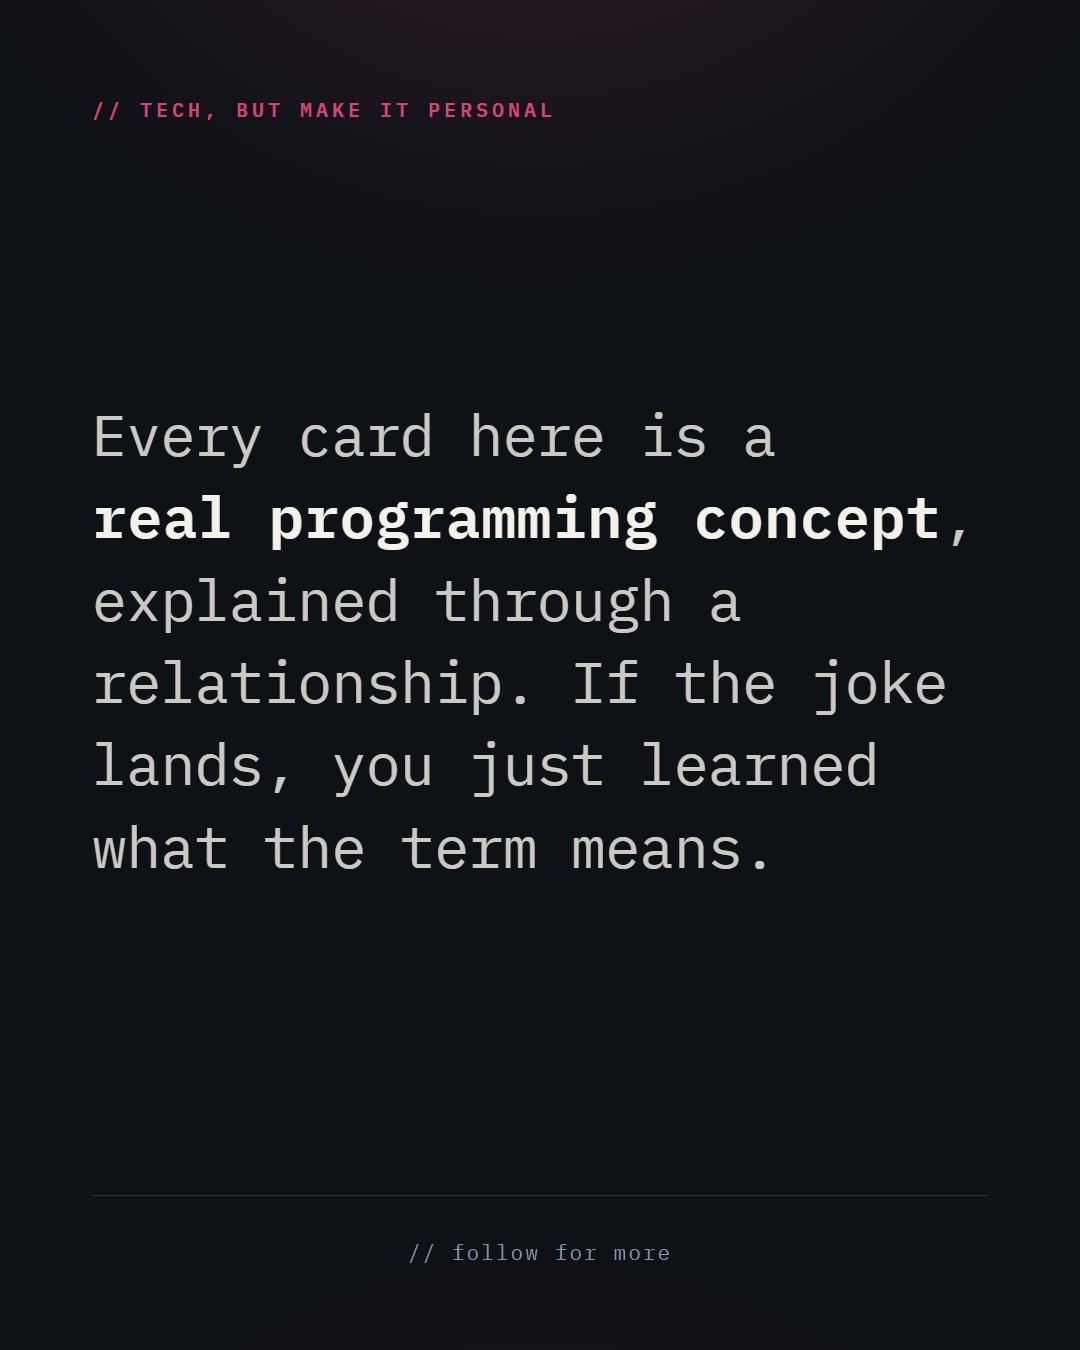
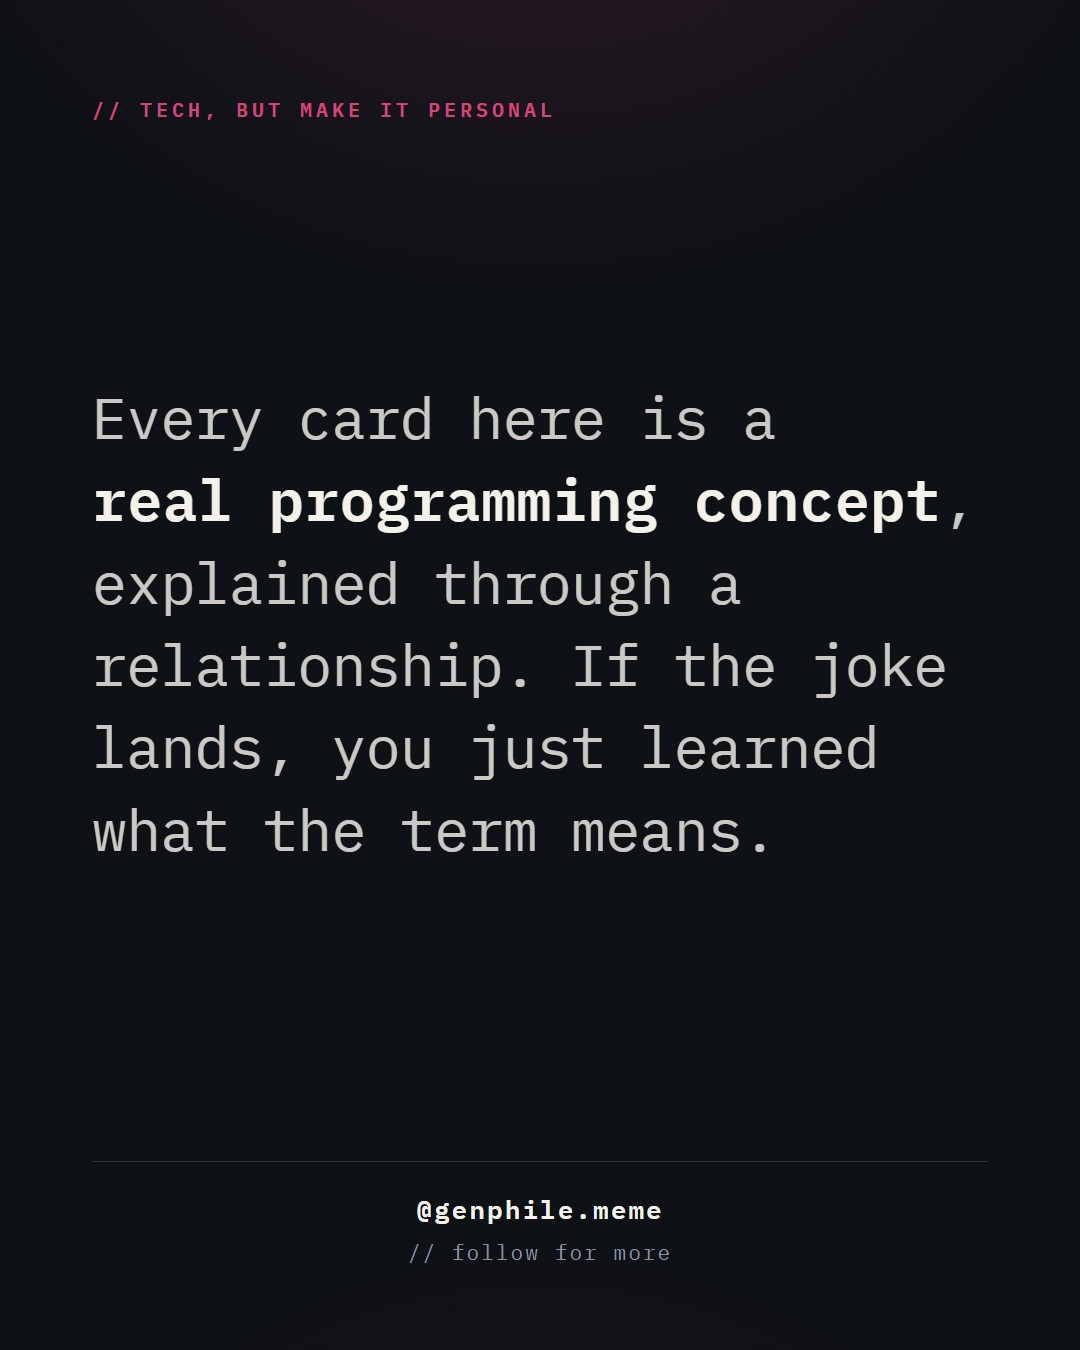
Set the real handles: @daily.techforyou and @genphile.meme
Both accounts exist now. The news account is new; the tech-metaphor
cards go to @genphile.meme, the owner's existing meme page, alongside
the posts made there by hand.

- Every card and both pinned intro cards now print the handle. The kit
  is rebuilt, and PROFILES.md shows the real handle.
- PROFILES.md said to post the intro card by hand, while the go-live
  page has the Gate A assistant post it. It now says the assistant does,
  which is also Meta's proof that publishing works.
- The branding test assumed placeholder handles were still shipped. It
  now checks that placeholders are blocked and the real handles pass.
- The go-live page marks the approvals and handles done and adjusts A1
  and A7 to the real accounts.

Changed region(s): [[0.0917, 0.28, 0.8861, 0.6533], [0.3667, 0.8711, 0.6111, 0.9022]]

diff --git a/go-live.html b/go-live.html
@@ -280,7 +280,7 @@
       </li>
       <li>
         <span class="n">3</span><span class="name">Harden</span><span class="chip done">Done</span>
-        <span class="detail">Fixed the findings of two code reviews and every problem the real runs surfaced; 150 Python and 24 publisher tests run on each change.</span>
+        <span class="detail">Fixed the findings of two code reviews and every problem the real runs surfaced; 151 Python and 24 publisher tests run on each change.</span>
       </li>
       <li>
         <span class="n">4</span><span class="name">Your credentials</span><span class="chip doing">3 of 6</span>
@@ -438,7 +438,7 @@
           <tr><td class="k">Alerts</td><td>Telegram receipts, review requests, skips and failures.</td><td>Three messages delivered today</td></tr>
           <tr><td class="k">Safety</td><td>The <code>LIVE</code> switch, a block on placeholder handles, protection against hostile links, secrets never echoed.</td><td>Automated tests</td></tr>
           <tr><td class="k">Token health</td><td>Checks the Instagram token every ten days.</td><td>Run against Meta's live API</td></tr>
-          <tr><td class="k">Quality</td><td>150 Python and 24 publisher tests on every change.</td><td>Passing on GitHub</td></tr>
+          <tr><td class="k">Quality</td><td>151 Python and 24 publisher tests on every change.</td><td>Passing on GitHub</td></tr>
         </tbody>
       </table>
     </div>
@@ -461,15 +461,12 @@
 
     <div class="phase" data-phase="R">
       <div class="phase-head">
-        <span class="phase-id">Now</span>
+        <span class="phase-id">Done</span>
         <span class="phase-name">Review the first cards</span>
-        <div class="meta"><span class="chip you">You</span><span class="chip effort">5 min</span><span class="progress" data-progress="R"></span></div>
+        <div class="meta"><span class="chip done">Complete</span></div>
       </div>
       <ul class="tasks">
-        <li><label class="task" for="task-R1"><input type="checkbox" id="task-R1" data-id="R1"><span class="task-id">R1</span><span class="task-body">
-          <span class="what">Tick the cards worth posting on <a href="https://github.com/rameshkumark24/Instapost/issues/1">issue #1</a></span>
-          <span class="how">Tick before 13:00 IST on Saturday 21 Sep; after that the twelve expire and a fresh batch is drafted. The issue shows as closed, which is fine: ticks on it still count. Strongest: PACKET LOSS, 404 NOT FOUND, ORPHAN ROW, FOREIGN KEY, TECHNICAL DEBT, NULL, MERGE CONFLICT. I'd skip MERGE, TCP HANDSHAKE and DETACHED HEAD. Ticking publishes nothing yet.</span>
-        </span></label></li>
+        <li><div class="task is-done"><span class="tick">✓</span><span class="task-id">R1</span><span class="task-body"><span class="what">7 cards approved on <a href="https://github.com/rameshkumark24/Instapost/issues/1">issue #1</a>, about a week of tech-metaphor cards</span></span></div></li>
       </ul>
     </div>
 
@@ -497,7 +494,7 @@
       <ul class="tasks">
         <li><label class="task" for="task-A1"><input type="checkbox" id="task-A1" data-id="A1"><span class="task-id">A1</span><span class="task-body">
           <span class="what">Create both Instagram accounts, switch each to Professional, keep both public</span>
-          <span class="how">One for news, one for tech-metaphor. Posting through the API does not work on private accounts. Names, bios, profile pictures and pinned posts are ready in <code>brand/PROFILES.md</code>.</span>
+          <span class="how">Both exist: <code>@daily.techforyou</code>, and your existing <code>@genphile.meme</code>. Check each is set to Professional (Creator or Business) and is public: posting through the API does not work on personal or private accounts.</span>
         </span></label></li>
         <li><label class="task" for="task-A2"><input type="checkbox" id="task-A2" data-id="A2"><span class="task-id">A2</span><span class="task-body">
           <span class="what">Create two Facebook Pages and link one to each account</span>
@@ -521,7 +518,7 @@
         </span></label></li>
         <li><label class="task" for="task-A7"><input type="checkbox" id="task-A7" data-id="A7"><span class="task-id">A7</span><span class="task-body">
           <span class="what">Post each account's pinned intro card</span>
-          <span class="how">Run the assistant again with <code>--publish</code> and type <code>PUBLISH</code> when asked. Gate A passes when Meta publishes; the test post you need anyway becomes each account's first real post. Pin it from the post's menu.</span>
+          <span class="how">Run the assistant again with <code>--publish</code> and type <code>PUBLISH</code> when asked. Gate A passes when Meta publishes each account's intro card, and this copy carries your handle. You already posted the intro by hand, so afterwards delete whichever copy you like less and pin the other.</span>
         </span></label></li>
       </ul>
     </div>
@@ -546,15 +543,12 @@
 
     <div class="phase" data-phase="H">
       <div class="phase-head">
-        <span class="phase-id">Handles</span>
-        <span class="phase-name">Tell me the account names</span>
-        <div class="meta"><span class="chip you">You</span><span class="chip effort">1 min</span><span class="progress" data-progress="H"></span></div>
+        <span class="phase-id">Done</span>
+        <span class="phase-name">Account handles</span>
+        <div class="meta"><span class="chip done">Complete</span></div>
       </div>
       <ul class="tasks">
-        <li><label class="task" for="task-H1"><input type="checkbox" id="task-H1" data-id="H1"><span class="task-id">H1</span><span class="task-body">
-          <span class="what">Send me both handles</span>
-          <span class="how">They print on every card. A live build refuses to run until they're set.</span>
-        </span></label></li>
+        <li><div class="task is-done"><span class="tick">✓</span><span class="task-id">H1</span><span class="task-body"><span class="what">News: <code>@daily.techforyou</code>. Tech-metaphor: <code>@genphile.meme</code>, your existing meme page, where these cards join your own posts. Both handles now print on every card.</span></span></div></li>
       </ul>
     </div>
 
@@ -643,7 +637,7 @@
   <section>
     <h2>Where I come in</h2>
     <ul class="claude-list">
-      <li><span class="when">When you send the handles</span><span>I set them and run a dry build so you can check both cards.</span></li>
+      <li><span class="when">Handles</span><span>Done: both set, and today's cards rendered with them to check the fit.</span></li>
       <li><span class="when">During Gate A</span><span>Send screenshots of any Meta error and I'll tell you what it means and what to change.</span></li>
       <li><span class="when">After Gate A</span><span>We test the publisher with your token in shadow mode before anything goes public.</span></li>
       <li><span class="when">During the shadow run</span><span>I review the cards and logs, and tune the news topics, scoring and blocklist.</span></li>

diff --git a/src/brand.py b/src/brand.py
@@ -117,7 +117,7 @@ def build() -> dict[str, dict[str, Path]]:
             pinned = render(profile["intro"], out / "pinned-post.jpg", channel=channel)
         else:
             pinned = render_quote(profile["intro"], channel, out / "pinned-post.jpg")
-        written[name] = {"avatar": avatar, "pinned": pinned, "handle_set": bool(channel["handle"])}
+        written[name] = {"avatar": avatar, "pinned": pinned, "handle": channel["handle"], "handle_set": bool(channel["handle"])}
     return written
 
 
@@ -138,7 +138,8 @@ def write_profiles_md(written: dict[str, dict]) -> Path:
             "",
             "**Display name** (pick one): " + " · ".join(profile["display_names"]),
             "",
-            "**Handle ideas:** " + " · ".join(f"`{h}`" for h in profile["handle_ideas"]),
+            f"**Handle:** `{files['handle']}`" if files["handle_set"]
+            else "**Handle ideas:** " + " · ".join(f"`{h}`" for h in profile["handle_ideas"]),
             "",
             "**Bio** (copy exactly):",
             "",
@@ -148,8 +149,9 @@ def write_profiles_md(written: dict[str, dict]) -> Path:
             "",
             f"**Profile picture:** `brand/{name}/avatar.jpg`",
             "",
-            f"**Pinned first post:** `brand/{name}/pinned-post.jpg` - post it by hand before",
-            "the first automated post, then pin it from the post's menu.",
+            f"**Pinned first post:** `brand/{name}/pinned-post.jpg`. The Gate A assistant",
+            "publishes it for you (`.venv/Scripts/python -m src.gate_a --publish`, go-live",
+            "step A7), which is also Meta's proof that posting works. Pin it from the post's menu.",
             "",
         ]
         if not files["handle_set"]:

diff --git a/tests/test_pipeline.py b/tests/test_pipeline.py
@@ -508,12 +508,18 @@ class BrandingGuard(unittest.TestCase):
     def tearDown(self):
         cfg.DRY_RUN = self._dry
 
-    def test_every_shipped_placeholder_is_blocked_live(self):
+    def test_placeholder_handles_are_blocked_live(self):
+        cfg.DRY_RUN = False
+        for placeholder in ("@__news_handle__", "@__flirt_handle__"):
+            with self.subTest(handle=placeholder):
+                with self.assertRaises(RuntimeError):
+                    cfg.assert_branding_ready({"handle": placeholder})
+
+    def test_the_configured_handles_are_ready_to_go_live(self):
         cfg.DRY_RUN = False
         for name, channel in cfg.CHANNELS.items():
             with self.subTest(channel=name):
-                with self.assertRaises(RuntimeError):
-                    cfg.assert_branding_ready(channel)
+                cfg.assert_branding_ready(channel)      # raises on a placeholder or a malformed handle
 
     def test_placeholders_are_not_substrings_of_each_other(self):  # review 6
         handles = [c["handle"] for c in cfg.CHANNELS.values()]

diff --git a/src/config.py b/src/config.py
@@ -169,14 +169,14 @@ CHANNELS = {
     "news": {
         "template": "card.html",
         "dist": "news",
-        "handle": "@__news_handle__",       # <-- replace with the news account's handle
+        "handle": "@daily.techforyou",
         "label": "DAILY TECH BRIEF",
         "accent": "#FF6B35",
     },
     "flirt": {
         "template": "quote.html",
         "dist": "flirt",
-        "handle": "@__flirt_handle__",      # <-- replace with the tech-metaphor account's handle
+        "handle": "@genphile.meme",         # an existing meme page: these cards join its own posts
         "label": "// TECH, BUT MAKE IT PERSONAL",
         "accent": "#F0508A",
     },

diff --git a/brand/PROFILES.md b/brand/PROFILES.md
@@ -8,7 +8,7 @@ whether one is free.
 
 **Display name** (pick one): Daily Tech Brief · One Tech Story · The 7:45 Brief
 
-**Handle ideas:** `@dailytechbrief` · `@techbrief.daily` · `@onetechstory` · `@the745brief`
+**Handle:** `@daily.techforyou`
 
 **Bio** (copy exactly):
 
@@ -19,17 +19,15 @@ Summarised in plain words, source credited in the caption.
 
 **Profile picture:** `brand/news/avatar.jpg`
 
-**Pinned first post:** `brand/news/pinned-post.jpg` - post it by hand before
-the first automated post, then pin it from the post's menu.
-
-> The handle slot on the pinned post is blank because the real handle is not
-> set yet. Once it is, re-run `python -m src.brand` to add it.
+**Pinned first post:** `brand/news/pinned-post.jpg`. The Gate A assistant
+publishes it for you (`.venv/Scripts/python -m src.gate_a --publish`, go-live
+step A7), which is also Meta's proof that posting works. Pin it from the post's menu.
 
 ## Tech-metaphor account
 
 **Display name** (pick one): Commit Issues · Tech, But Personal · Primary Key Feelings
 
-**Handle ideas:** `@commitissues` · `@tech.but.personal` · `@foreignkeyfeelings` · `@mergeconflicts.daily`
+**Handle:** `@genphile.meme`
 
 **Bio** (copy exactly):
 
@@ -40,8 +38,6 @@ One card a day, 7:45 PM IST. // tech, but make it personal
 
 **Profile picture:** `brand/flirt/avatar.jpg`
 
-**Pinned first post:** `brand/flirt/pinned-post.jpg` - post it by hand before
-the first automated post, then pin it from the post's menu.
-
-> The handle slot on the pinned post is blank because the real handle is not
-> set yet. Once it is, re-run `python -m src.brand` to add it.
+**Pinned first post:** `brand/flirt/pinned-post.jpg`. The Gate A assistant
+publishes it for you (`.venv/Scripts/python -m src.gate_a --publish`, go-live
+step A7), which is also Meta's proof that posting works. Pin it from the post's menu.
